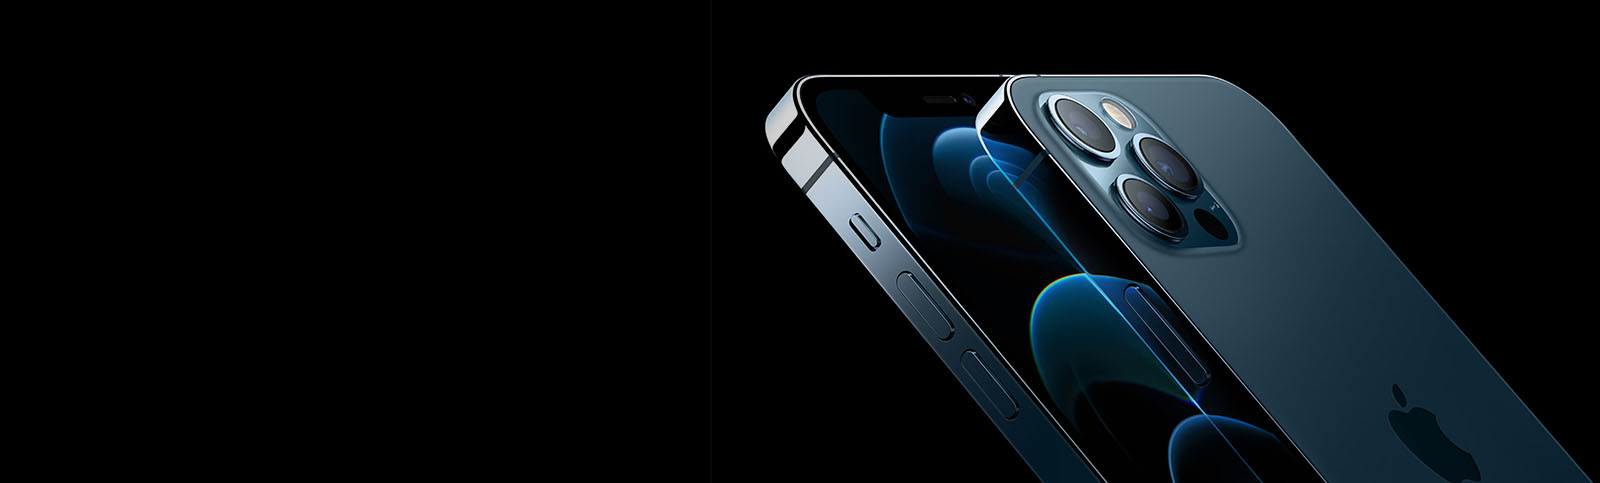
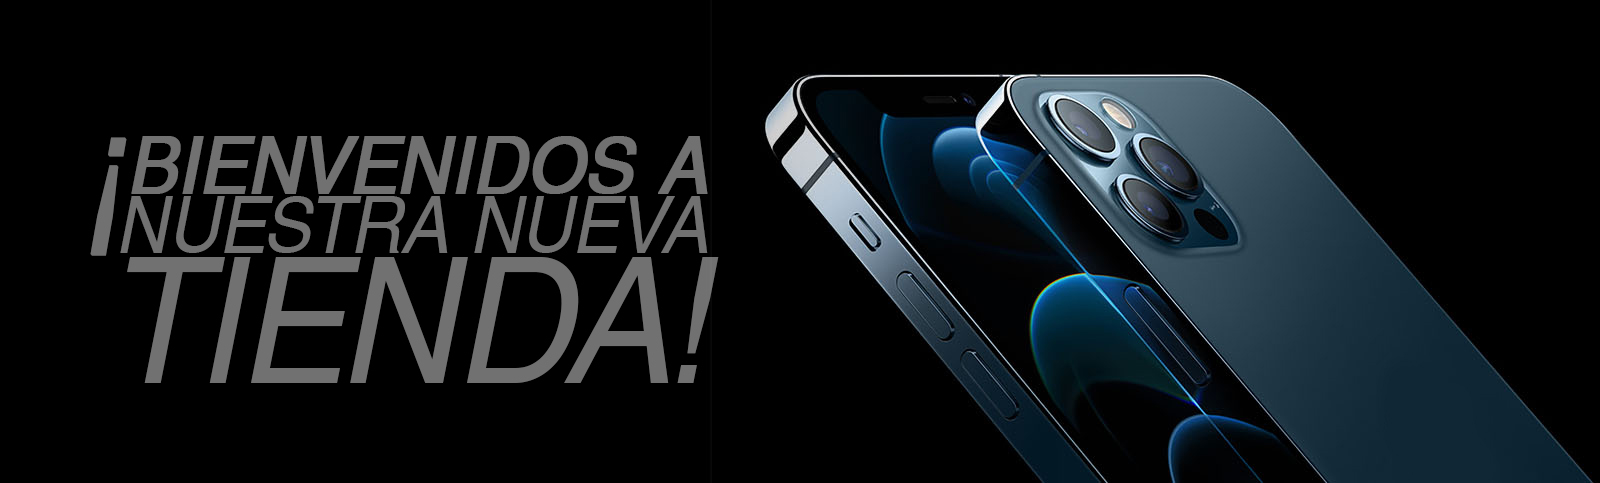
correciones 2

Changed region(s): [[0.0312, 0.2795, 0.4688, 0.8075], [0.875, 0.8385, 0.9375, 1.0]]

diff --git a/index.html b/index.html
@@ -41,39 +41,51 @@
           </div>
         </div>
       </nav>
-      <img src="imagenes/banner.jpg" class="img-fluid" alt="banner">
-      <div id="carouselExampleControls" class="carousel slide" data-bs-ride="carousel">
+        <div class="banner">
+            <img src="imagenes/banner.jpg" class="d-block w-100" alt="banner">
+            <div class="carousel-caption d-none d-md-block">
+          </div>
+      <div id="carouselExampleDark" class="carousel carousel-dark slide" data-bs-ride="carousel">
+        <div class="carousel-indicators">
+          <button type="button" data-bs-target="#carouselExampleDark" data-bs-slide-to="0" class="active" aria-current="true" aria-label="Slide 1"></button>
+          <button type="button" data-bs-target="#carouselExampleDark" data-bs-slide-to="1" aria-label="Slide 2"></button>
+        </div>
         <div class="carousel-inner">
-            <div class="carousel-item active">
-                <img src="imagenes/11pro.jpg" class="d-block w-100" alt="presetacion1">
-              </div>
+          <div class="carousel-item active" data-bs-interval="10000">
+            <img src="imagenes/celularesagua.jpg" class="d-block w-100" alt="hotsale">
+            <div class="carousel-caption d-none d-md-block">
+            </div>
+          </div>
           <div class="carousel-item">
-            <img src="imagenes/celulares agua.jpg" class="d-block w-100" alt="presetacion3">
+            <img src="imagenes/ofertas.jpg" class="d-block w-100" alt="ofertas">
+            <div class="carousel-caption d-none d-md-block">
+            </div>
           </div>
         </div>
-        <button class="carousel-control-prev" type="button" data-bs-target="#carouselExampleControls" data-bs-slide="prev">
+        <button class="carousel-control-prev" type="button" data-bs-target="#carouselExampleDark" data-bs-slide="prev">
           <span class="carousel-control-prev-icon" aria-hidden="true"></span>
           <span class="visually-hidden">Previous</span>
         </button>
-        <button class="carousel-control-next" type="button" data-bs-target="#carouselExampleControls" data-bs-slide="next">
+        <button class="carousel-control-next" type="button" data-bs-target="#carouselExampleDark" data-bs-slide="next">
           <span class="carousel-control-next-icon" aria-hidden="true"></span>
           <span class="visually-hidden">Next</span>
         </button>
       </div>
-<footer class="footer">
-  <div class="footer__contacto">
-      <div class="footer__redes">
-          <a href="whatsapp.com"><span class="jam jam-whatsapp"></span></a>
-          <a href="instagram.com"><span class="jam jam-instagram"></span></a>
-          <a href="facebook.com"><span class="jam jam-facebook"></span></a>
-          <a href="youtube.com"><span class="jam jam-youtube"></span></a>
+      <footer class="footer">
+        <div class="footer__contacto">
+            <div class="footer__redes">
+                <a href="whatsapp.com"><span class="jam jam-whatsapp"></span></a>
+                <a href="instagram.com"><span class="jam jam-instagram"></span></a>
+                <a href="facebook.com"><span class="jam jam-facebook"></span></a>
+                <a href="youtube.com"><span class="jam jam-youtube"></span></a>
+            </div>
+        </div>
+        <div class="footer__marca">
+            <img class="footer__logo" src="../imagenes/logoapple.png" alt="logotipo apple" width="120" height="120">
+            <p class="footer__texto">Copyright. Tienda Online - 2022 - Argentina - TODOS LOS DERECHOS RESERVADOS<span></span></p>
+        </div>
       </div>
-  </div>
-  <div class="footer__marca">
-      <img class="footer__logo" src="imagenes/logoapple.png" alt="logotipo apple" width="120" height="120">
-      <p class="footer__texto">Copyright. Tienda Digital - 2022 - Argentina - TODOS LOS DERECHOS RESERVADOS.<span></span></p>
-  </div>
-</footer>
+    </footer>
 <script src="https://cdn.jsdelivr.net/npm/bootstrap@5.0.2/dist/js/bootstrap.bundle.min.js" integrity="sha384-MrcW6ZMFYlzcLA8Nl+NtUVF0sA7MsXsP1UyJoMp4YLEuNSfAP+JcXn/tWtIaxVXM" crossorigin="anonymous"></script>
 </body>
 </html>

diff --git a/paginas/productos.html b/paginas/productos.html
@@ -47,17 +47,42 @@
 
 <main>
   <div class="row">
-    <div class="col-sm-6">
+    <div class="col-sm-3">
+      <div class="dropdown">
+        <button class="btn btn-secondary dropdown-toggle" type="button" id="dropdownMenuButton1" data-bs-toggle="dropdown" aria-expanded="false">
+          Ordenar por:
+        </button>
+        <ul class="dropdown-menu" aria-labelledby="dropdownMenuButton1">
+          <li><a class="dropdown-item" href="#">Mas relevantes</a></li>
+          <li><a class="dropdown-item" href="#">Ofertas</a></li>
+          <li><a class="dropdown-item" href="#">Mayor precio</a></li>
+          <li><a class="dropdown-item" href="#">Menor precio</a></li>
+        </ul>
+      </div>
+    </div>
+    
+    <div class="col-sm-3">
       <div class="card">
         <img src="../imagenes/11.jpg" class="card-img-top" alt="11">
         <div class="card-body">
-          <h5 class="card-title">IPHONE 11</h5>
-          <p class="card-text">Celular Tester CLASE A. $800</p>
+          <h5 class="card-title">IPHONE 11 PRO</h5>
+          <p class="card-text">Celular Tester CLASE A. $700</p>
           <a href="#" class="btn btn-primary">añadir al carrito</a>
         </div>
       </div>
     </div>
-    <div class="col-sm-6">
+    <div class="col-sm-3">
+      <div class="card">
+        <img src="../imagenes/11.jpg" class="card-img-top" alt="11">
+        <div class="card-body">
+          <h5 class="card-title">IPHONE 11 PRO</h5>
+          <p class="card-text">Celular Tester CLASE A. $700</p>
+          <a href="#" class="btn btn-primary">añadir al carrito</a>
+        </div>
+      </div>
+    </div>
+    
+    <div class="col-sm-3">
       <div class="card">
         <img src="../imagenes/8.jpg" class="card-img-top" alt="8">
         <div class="card-body">
@@ -67,7 +92,7 @@
         </div>
       </div>
     </div>
-    <div class="col-sm-6">
+    <div class="col-sm-3">
       <div class="card">
         <img src="../imagenes/12.jpg" class="card-img-top" alt="12">
         <div class="card-body">
@@ -77,7 +102,7 @@
         </div>
       </div>
     </div>
-    <div class="col-sm-6">
+    <div class="col-sm-3">
       <div class="card">
         <img src="../imagenes/xr.jpg" class="card-img-top" alt="xr">
         <div class="card-body">
@@ -85,9 +110,7 @@
           <p class="card-text">Celular Tester CLASE A. $500</p>
           <a href="#" class="btn btn-primary">añadir al carrito</a>
         </div>
-      </div>
-    </div>
-    
+      </div>   
   </div>
 </main>
 

diff --git a/css/estilos.css b/css/estilos.css
@@ -22,10 +22,6 @@ main {
     color: #42a;
 }
 
-.img-fluid {
-    padding: 20px;
-}
-
 .navbar-nav {
     align-items: center;
     display: flex;
@@ -75,6 +71,9 @@ main {
     margin-left: 16px;
 }
 
+.banner img {
+    padding: 0.4rem;
+}
 
 .nav__enlace {
     color: #fff;
@@ -132,8 +131,8 @@ h3 {
     margin-top: 1rem;
     background-color: #000;
     color: #fff;
-    padding: 2rem;
-    font-size: 30px;
+    padding: 1rem;
+    font-size: 25px;
 }
 
 .footer__contacto {
@@ -283,20 +282,38 @@ footer a {
     justify-content: center;
 }
 
+.row {
+    display: flex;
+    padding: 1rem;
+    margin: auto;
+    flex-direction: row;
+    flex-wrap: wrap;
+    justify-content: center;
+}
+
+.dropdown{
+    display: flex;
+    margin: auto;
+}
+
 .card-img-top {
     width: 200px;
     height: 200px
 }
 
 .card {
+    justify-content: space-around;
     align-items: center;
-    margin: 5px;
+    margin: auto;
+}
 
+.col-sm-3 {
+    padding: 0px;
 }
 
 .btn {
     margin: auto;
-    align-items: center;
+    justify-items: center;
     }
 
 @media screen and (max-width: 1023px) {
